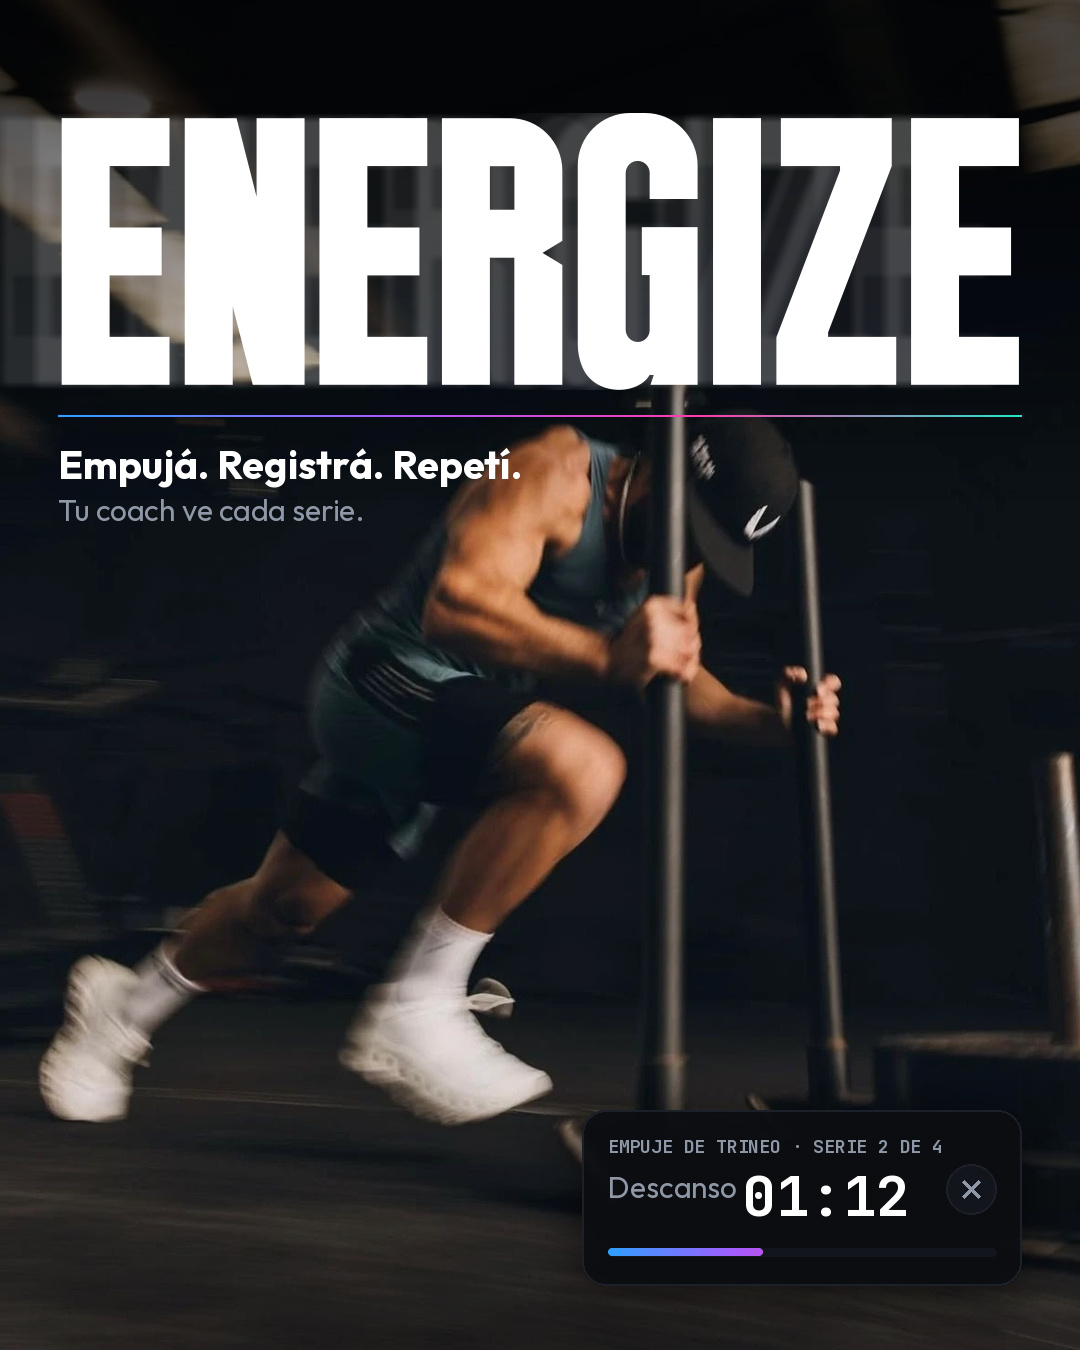
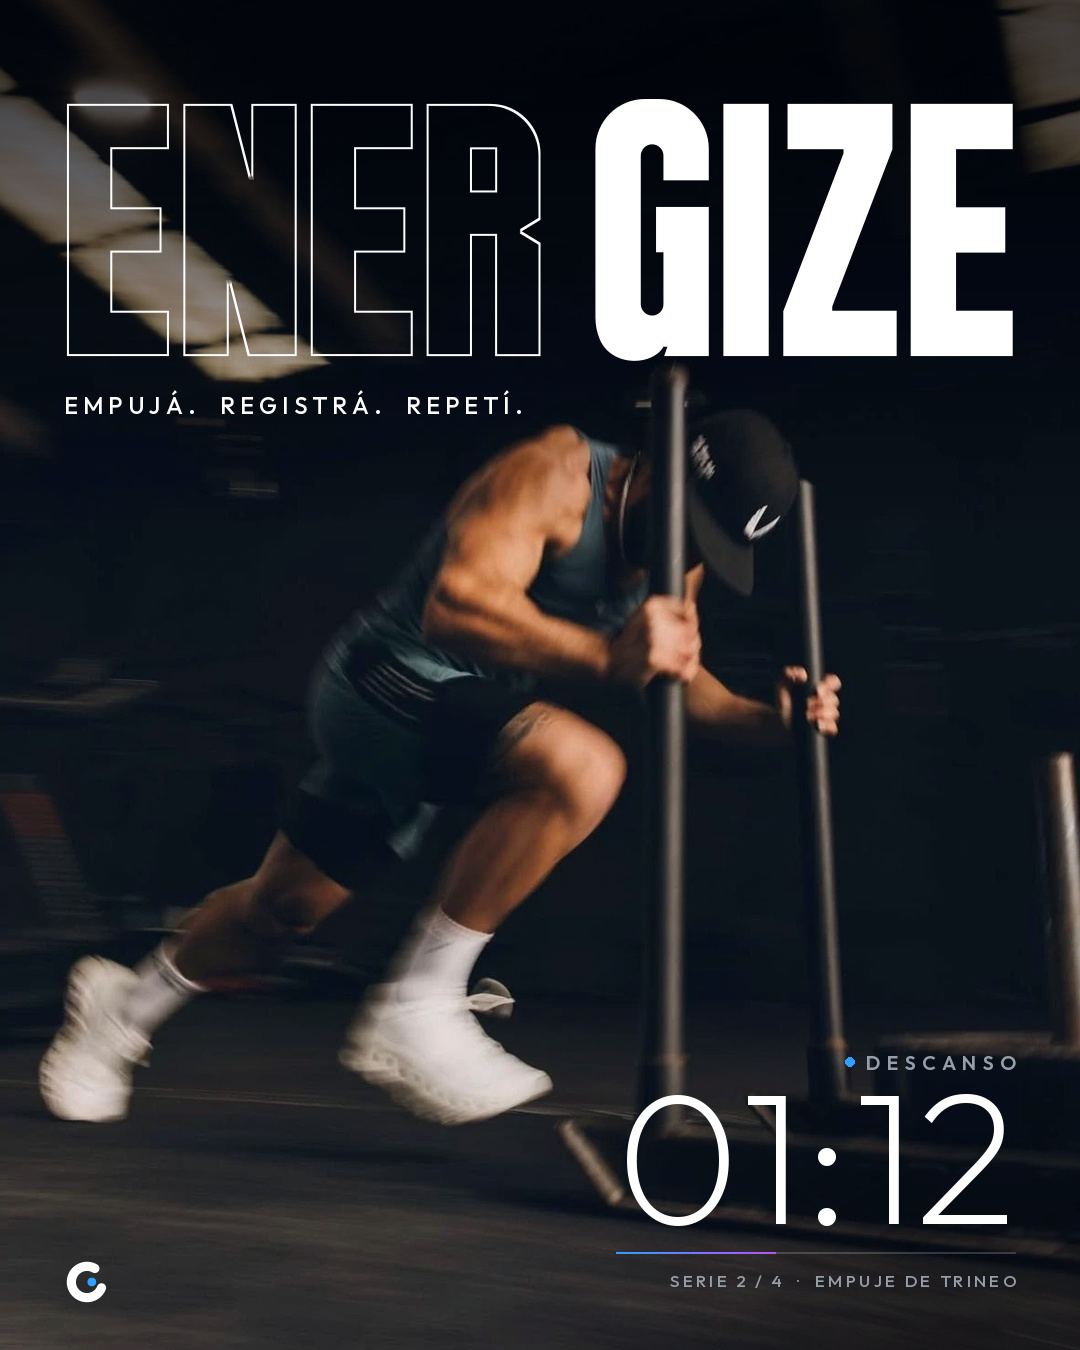
Post del trineo rediseñado: ENER/GIZE y el descanso como tipografía editorial
Claude-Session: https://claude.ai/code/session_01XgazYx4e7Y9eR8BozjHA6b

diff --git a/piezas/post-trineo/post.py b/piezas/post-trineo/post.py
@@ -1,107 +1,115 @@
-"""GIZE · post 4:5: ENERGIZE con estela de movimiento sobre la foto del trineo + la barra de descanso de la app."""
+"""GIZE · post 4:5 del trineo, versión editorial.
+Arriba ENER (contorno) + GIZE (macizo) en Bigger Display. Abajo a la derecha, el descanso de la
+app convertido en tipografía: número grande en Outfit ExtraLight, etiqueta espaciada y un
+filete de progreso con la gama. Nada de tarjetas ni capturas."""
 import os
 import numpy as np
-from PIL import Image, ImageDraw, ImageFilter, ImageFont
+from PIL import Image, ImageDraw, ImageFilter, ImageChops, ImageFont
 import sys
 sys.path.insert(0, os.path.join(os.path.dirname(os.path.abspath(__file__)), '..', 'triptico-energize'))
 import glifos
 
 HERE = os.path.dirname(os.path.abspath(__file__))
 FOTO = os.path.join(HERE, 'foto.webp')
+FONTS = os.path.join(HERE, '..', 'triptico-energize', 'fonts')
 OUT = os.path.join(HERE, 'salida')
+REPO = os.path.abspath(os.path.join(HERE, '../..'))
 os.makedirs(OUT, exist_ok=True)
 W, H = 1080, 1350
-F = lambda f, s: ImageFont.truetype(os.path.join(HERE, '..', 'triptico-energize', 'fonts', f), s)
+M = 64                                            # margen de la grilla
 GAMA = [(47, 160, 255), (166, 92, 255), (255, 61, 174), (37, 232, 200)]
-TEXT, TEXT2, GREEN = (255, 255, 255), (143, 152, 166), (37, 232, 200)
-SURF, SURF2, BORDER = (11, 13, 17), (18, 21, 27), (28, 32, 41)
+WHITE, GREY = (255, 255, 255), (150, 158, 170)
 
-def rounded_mask(w, h, r, ss=3):
-    m = Image.new('L', (w * ss, h * ss), 0)
-    ImageDraw.Draw(m).rounded_rectangle((0, 0, w * ss - 1, h * ss - 1), r * ss, fill=255)
-    return m.resize((w, h), Image.LANCZOS)
+def font(weight, size):
+    files = {200: 'outfit-latin-200-normal.woff', 300: 'outfit-latin-300-normal.woff',
+             500: 'outfit-latin-500-normal.woff', 600: 'outfit-latin-600-normal.woff'}
+    return ImageFont.truetype(os.path.join(FONTS, files[weight]), size)
 
-def gama_h(w, h, stops=GAMA):
-    x = np.linspace(0, 1, w); p = x * (len(stops) - 1)
-    i0 = np.minimum(p.astype(int), len(stops) - 2); fr = (p - i0)[:, None]
-    st = np.array(stops, np.float32)
+def gama_h(w, h):
+    x = np.linspace(0, 1, w); p = x * 3; i0 = np.minimum(p.astype(int), 2); fr = (p - i0)[:, None]
+    st = np.array(GAMA, np.float32)
     return np.repeat((st[i0] * (1 - fr) + st[i0 + 1] * fr)[None], h, 0).astype(np.uint8)
 
-# ---------- foto (cubre 1080×1350) ----------
+def tracked(d, xy, text, fnt, fill, track, anchor_right=False):
+    """Texto con espaciado entre letras (tracking) en px."""
+    widths = [d.textlength(ch, font=fnt) for ch in text]
+    total = sum(widths) + track * (len(text) - 1)
+    x, y = xy
+    if anchor_right: x -= total
+    for ch, w in zip(text, widths):
+        d.text((x, y), ch, font=fnt, fill=fill); x += w + track
+    return total
+
+# ---------- foto: cubrir 4:5 y trabajar la luz ----------
 src = Image.open(FOTO).convert('RGB')
 s = max(W / src.width, H / src.height)
 big = src.resize((round(src.width * s), round(src.height * s)), Image.LANCZOS)
 ox = (big.width - W) // 2
-img = big.crop((ox, 0, ox + W, H))
-a = np.asarray(img).astype(np.float32)
-yy = np.arange(H)[:, None, None].astype(np.float32)
-# techo más oscuro para que la palabra respire; piso apenas más oscuro para la barra
-xx = np.arange(W)[None, :, None].astype(np.float32)
-# techo: las luces de arriba a la izquierda se apagan bastante
-a *= (0.30 + 0.70 * np.clip((yy - 80) / 420, 0, 1) ** 1.2) * (0.75 + 0.25 * np.clip(xx / 700, 0, 1)) ** (1 - np.clip((yy - 80) / 420, 0, 1))
-a *= (1 - 0.35 * np.clip((yy - 1080) / 270, 0, 1))
-img = Image.fromarray(a.astype(np.uint8)).convert('RGBA')
+a = np.asarray(big.crop((ox, 0, ox + W, H))).astype(np.float32)
+yy = np.arange(H, dtype=np.float32)[:, None]
+xx = np.arange(W, dtype=np.float32)[None, :]
+top = 0.28 + 0.72 * np.clip((yy - 60) / 460, 0, 1) ** 1.3            # techo apagado
+foot = 1 - 0.55 * np.clip((yy - 1000) / 350, 0, 1) * np.clip((xx - 480) / 420, 0, 1)   # rincón inferior derecho
+a *= (top * foot)[..., None]
+# leve tono frío en las sombras, para que case con el negro azulado de la marca
+lum = a.mean(-1, keepdims=True)
+a += (1 - np.clip(lum / 90, 0, 1)) * np.array([-2, 0, 5], np.float32)
+img = Image.fromarray(np.clip(a, 0, 255).astype(np.uint8)).convert('RGBA')
 
-# ---------- ENERGIZE con estela (el atleta empuja hacia la derecha) ----------
-M = 58
-word, k = glifos.word_image('ENERGIZE', 100)
-CAP = round(100 * (W - 2 * M) / word.width)
-word, k = glifos.word_image('ENERGIZE', CAP)
+# ---------- ENER / GIZE en una línea ----------
+gap_u = 150                                       # aire entre las dos palabras, en unidades de fuente
+ener0, _ = glifos.word_image('ENER', 100)
+gize0, _ = glifos.word_image('GIZE', 100)
+k100 = 100 / 772
+total_u = (ener0.width + gize0.width) / k100 + gap_u
+CAP = round((W - 2 * M) / total_u * 772)
+ener, k = glifos.word_image('ENER', CAP)
+gize, _ = glifos.word_image('GIZE', CAP)
 pad_top = round((glifos.TOP - 785) * k)
-wy = 118 - pad_top
-# estela: copias corridas hacia atrás (izquierda), cada vez más tenues y estiradas
-alpha = word.getchannel('A')
-for i, (dx, op) in enumerate([(-96, .05), (-58, .09), (-26, .14)]):
-    ghost = Image.new('RGBA', word.size, (255, 255, 255, 0))
-    ga = alpha.filter(ImageFilter.BoxBlur(3 + i)).point(lambda v, op=op: int(v * op))
-    ghost.putalpha(ga)
-    img.alpha_composite(ghost, (M + dx, wy))
-# la palabra: blanco, con ENER un poco más tenue que GIZE (el nombre sale de energize)
-ener_w = glifos.word_image('ENER', CAP)[0].width + round(23.5 * k)
-solid = word.copy()
-sa = np.asarray(alpha).astype(np.float32)
-sa[:, :ener_w] *= 1.0
-solid.putalpha(Image.fromarray(sa.astype(np.uint8)))
-img.alpha_composite(solid, (M, wy))
+y0 = 104 - pad_top
+al = ener.getchannel('A')
+edge = ImageChops.subtract(al, al.filter(ImageFilter.MinFilter(5)))
+outl = Image.new('RGBA', ener.size, WHITE + (0,)); outl.putalpha(edge)
+img.alpha_composite(outl, (M, y0))
+img.alpha_composite(gize, (W - M - gize.width, y0))
+base_y = y0 + pad_top + CAP
 
-# filete RGB bajo la palabra y el texto
-ly = wy + pad_top + CAP + 30
-line = Image.fromarray(gama_h(W - 2 * M, 2)).convert('RGBA')
-img.alpha_composite(line, (M, ly))
 d = ImageDraw.Draw(img)
-f_t = F('Outfit-Bold.ttf', 40)
-d.text((M, ly + 24), 'Empujá. Registrá. Repetí.', font=f_t, fill=TEXT)
-f_s = F('Outfit-Regular.ttf', 30)
-d.text((M, ly + 76), 'Tu coach ve cada serie.', font=f_s, fill=TEXT2)
+# bajada: una sola línea, alineada a la grilla
+tag_y = base_y + 34
+tracked(d, (M, tag_y), 'EMPUJÁ.  REGISTRÁ.  REPETÍ.', font(500, 24), WHITE, 5)
 
-# ---------- barra de descanso de la app ----------
-bw, bh = 440, 176
-bx, by = W - M - bw, H - 64 - bh
-bar = Image.new('RGBA', (bw, bh), SURF + (240,))
-bar.putalpha(rounded_mask(bw, bh, 24).point(lambda v: int(v * 240 / 255)))
-bd = ImageDraw.Draw(bar)
-bd.rounded_rectangle((0, 0, bw - 1, bh - 1), 24, outline=BORDER, width=2)
-bd.text((26, 24), 'EMPUJE DE TRINEO · SERIE 2 DE 4', font=F('JetBrainsMono-Bold.ttf', 18), fill=TEXT2)
-bd.text((26, 58), 'Descanso', font=F('Outfit-Regular.ttf', 30), fill=TEXT2)
-tf = F('JetBrainsMono-Bold.ttf', 56)
-bd.text((160, 48), '01:12', font=tf, fill=TEXT)
-# botón saltar (x)
-cx0, cy0 = bw - 26 - 50, 54
-bd.rounded_rectangle((cx0, cy0, cx0 + 50, cy0 + 50), 25, fill=SURF2, outline=BORDER, width=2)
-for s_ in (1, -1):
-    bd.line([(cx0 + 17, cy0 + 25 - 8 * s_), (cx0 + 33, cy0 + 25 + 8 * s_)], fill=TEXT2, width=4)
-# progreso (40 %) con la gama
-tw_, th_ = bw - 52, 8
-bd.rounded_rectangle((26, 138, 26 + tw_, 138 + th_), 4, fill=SURF2)
-pw = int(tw_ * .40)
-prog = Image.fromarray(gama_h(tw_, th_)).crop((0, 0, pw, th_)).convert('RGBA')
-prog.putalpha(rounded_mask(pw, th_, 4))
-bar.alpha_composite(prog, (26, 138))
-# sombra
-sh = Image.new('L', (W, H), 0); sh.paste(rounded_mask(bw, bh, 24), (bx, by + 12))
-dark = Image.new('RGBA', (W, H), (0, 0, 0, 255)); dark.putalpha(sh.filter(ImageFilter.GaussianBlur(24)).point(lambda v: int(v * .6)))
-img.alpha_composite(dark)
-img.alpha_composite(bar, (bx, by))
+# ---------- descanso de la app, en tipografía ----------
+R_X = W - M                                        # todo alineado al margen derecho
+num_f = font(200, 188)
+num = '01:12'
+nb = d.textbbox((0, 0), num, font=num_f)
+num_w, num_h = nb[2] - nb[0], nb[3] - nb[1]
+num_y = H - M - 60 - num_h - nb[1]
+lbl_y = num_y + nb[1] - 44
+tracked(d, (R_X, lbl_y), 'DESCANSO', font(600, 20), GREY, 6, anchor_right=True)
+# punto azul funcional delante de la etiqueta
+lbl_w = tracked(ImageDraw.Draw(Image.new('L', (1, 1))), (0, 0), 'DESCANSO', font(600, 20), 0, 6)
+dx = R_X - lbl_w - 20
+d.ellipse((dx, lbl_y + 7, dx + 9, lbl_y + 16), fill=GAMA[0])
+d.text((R_X - num_w - nb[0], num_y), num, font=num_f, fill=WHITE)
+
+# filete de progreso: pista tenue al ancho del número, 40 % con la gama
+bar_y = num_y + nb[3] + 26
+bw = num_w
+track_ = Image.new('RGBA', (bw, 2), (255, 255, 255, 46))
+img.alpha_composite(track_, (R_X - bw, bar_y))
+pw = int(bw * .40)
+prog = Image.fromarray(gama_h(bw, 2)).crop((0, 0, pw, 2)).convert('RGBA')
+img.alpha_composite(prog, (R_X - bw, bar_y))
+# pie: serie y ejercicio, chiquito
+tracked(d, (R_X, bar_y + 18), 'SERIE 2 / 4  ·  EMPUJE DE TRINEO', font(500, 17), GREY, 3, anchor_right=True)
+
+# monograma chico abajo a la izquierda, como firma
+import cairosvg, io
+g = Image.open(io.BytesIO(cairosvg.svg2png(url=os.path.join(REPO, 'brand/logo/gize-monograma.svg'), output_width=46))).convert('RGBA')
+foot_c = bar_y + 18 + 12                          # centro óptico del pie
+img.alpha_composite(g, (M, foot_c - 23))
 
 img.convert('RGB').save(os.path.join(OUT, 'post-trineo-1080x1350.jpg'), quality=95, subsampling=0)
 print('ok', CAP)
